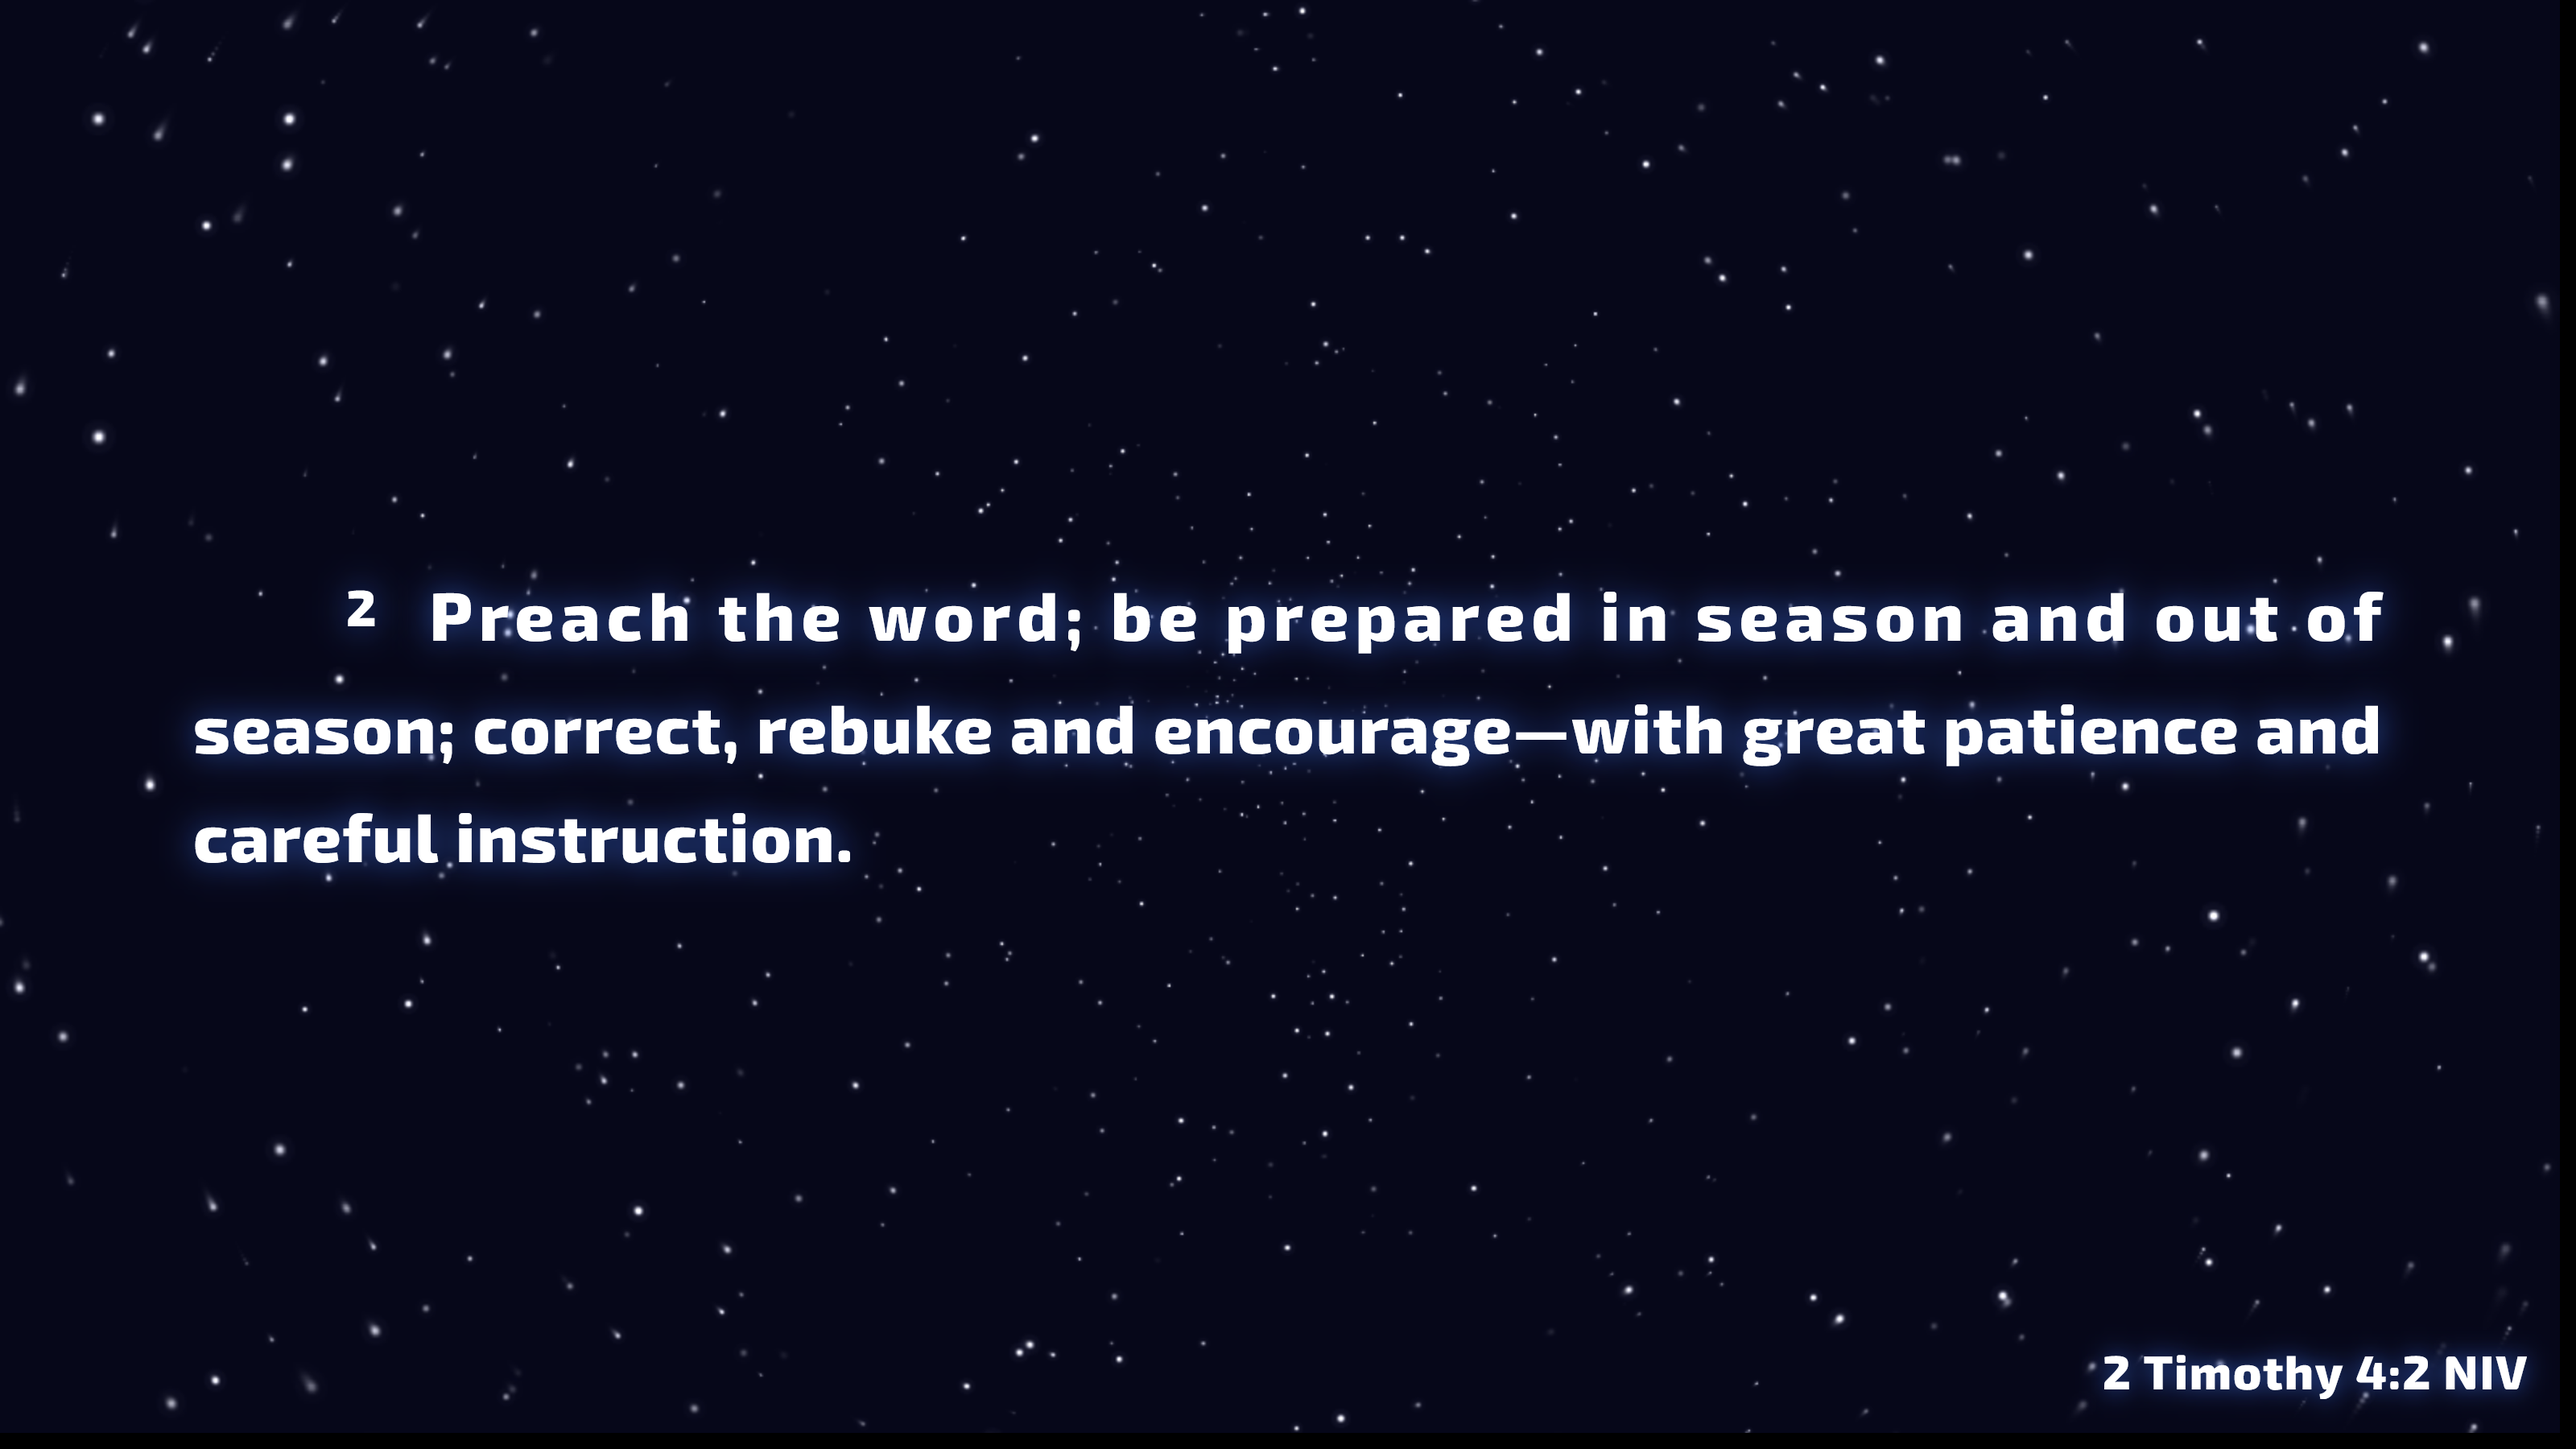
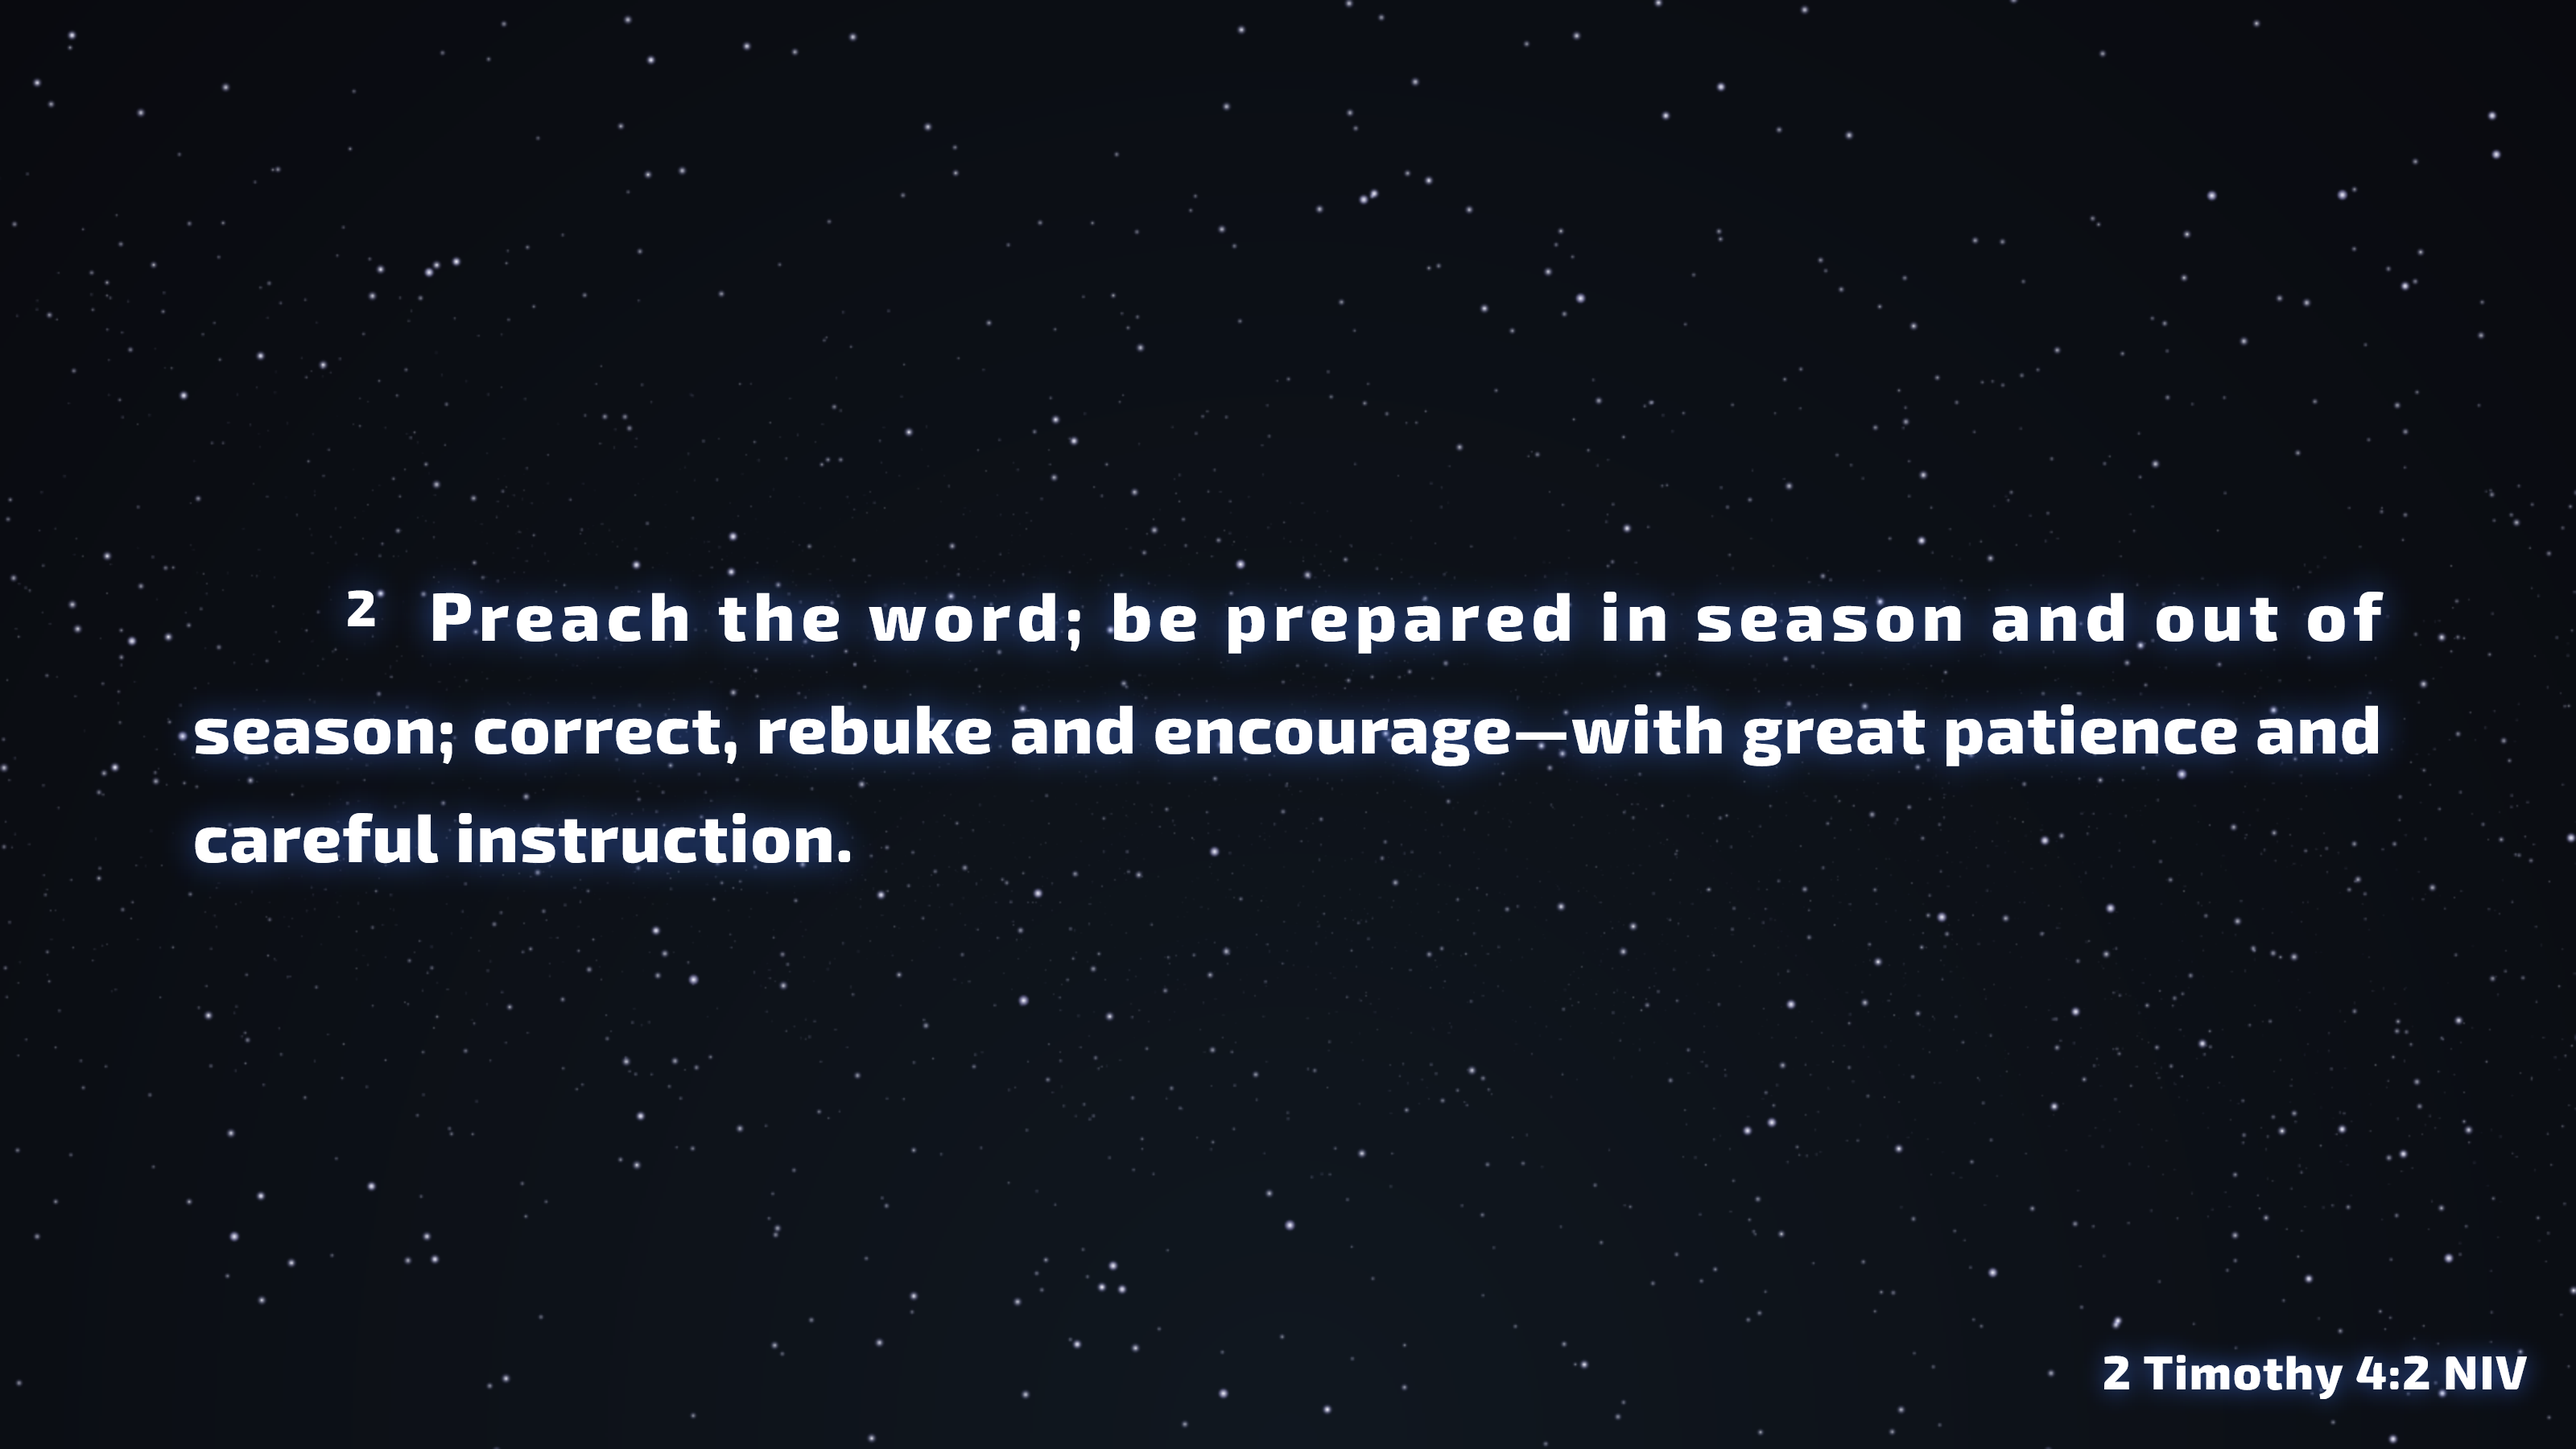
Switch animated stars theme

Changed region(s): [[0.1875, 0.9644, 0.8125, 1.0]]

diff --git a/backgrounds/amimated-stars.js b/backgrounds/amimated-stars.js
@@ -1,0 +1,162 @@
+const canvas = document.querySelector('canvas')
+const gl = canvas.getContext('webgl')
+
+const vertexShader = gl.createShader(gl.VERTEX_SHADER)
+gl.shaderSource(vertexShader, `
+precision highp float;
+
+uniform mat4 u_mvp;
+
+attribute vec3 a_position;
+
+varying float v_w;
+
+void main(void) {
+
+  vec4 finalPosition = u_mvp * vec4(a_position, 1.0);
+
+  gl_Position = finalPosition;
+  v_w = 1.0 / finalPosition.w;
+
+  if (gl_Position.w > 0.0) {
+    gl_PointSize = 5.0 / gl_Position.w;
+    if (gl_PointSize > 8.0) {
+      gl_PointSize = 8.0;
+    }
+  } else {
+    gl_PointSize = 0.0;
+  }
+}`)
+gl.compileShader(vertexShader)
+if (!gl.getShaderParameter(vertexShader, gl.COMPILE_STATUS)) {
+  console.error(gl.getShaderInfoLog(vertexShader))
+}
+
+const fragmentShader = gl.createShader(gl.FRAGMENT_SHADER)
+gl.shaderSource(fragmentShader, `
+precision highp float;
+
+varying float v_w;
+
+const vec4 begin = vec4(0.55, 0.55, 1.0, 1.0); // Colors
+const vec4 end = vec4(1.0, 1.0, 1.0, 1.0);
+
+vec4 interpolate4f(vec4 a,vec4 b, float p) {
+  return p * b + (1.0 - p) * a;
+}
+
+void main(void) {
+
+  vec2 pc = (gl_PointCoord - 0.5) * 2.0;
+
+  float dist = (1.0 - sqrt(pc.x * pc.x + pc.y * pc.y));
+  vec4 color = interpolate4f(begin, end, dist);
+  float distPart = v_w/70.0 + dist/1.0;
+  float opa =  dist * v_w/1.5 - 0.1;
+
+  gl_FragColor = vec4(distPart, distPart, distPart, opa) * color;
+
+}`)
+
+gl.compileShader(fragmentShader)
+if (!gl.getShaderParameter(fragmentShader, gl.COMPILE_STATUS)) {
+  console.error(gl.getShaderInfoLog(fragmentShader))
+}
+
+const program = gl.createProgram()
+gl.attachShader(program, vertexShader)
+gl.attachShader(program, fragmentShader)
+gl.linkProgram(program)
+
+const attributes = {
+  position: gl.getAttribLocation(program, 'a_position')
+}
+const uniforms = {
+  mvp: gl.getUniformLocation(program, 'u_mvp')
+}
+
+const NUM_POINTS = 20000
+const points = []
+for (let index = 0; index < NUM_POINTS; index++) {
+  points.push((Math.random() - 0.5) * 8)
+  points.push((Math.random() - 0.5) * 2)
+  points.push((Math.random() - 0.5) * 8)
+}
+
+const buffer = gl.createBuffer()
+gl.bindBuffer(gl.ARRAY_BUFFER, buffer)
+gl.bufferData(gl.ARRAY_BUFFER, new Float32Array(points), gl.STATIC_DRAW)
+  
+gl.clearColor(1.0, 1.0, 1.0, 1.0)
+gl.clear(gl.COLOR_BUFFER_BIT)
+
+gl.useProgram(program)
+  
+gl.enableVertexAttribArray(attributes.position)
+gl.vertexAttribPointer(0, 3, gl.FLOAT, gl.FALSE, 3*4, 0)
+
+gl.enable(gl.BLEND)
+gl.blendFunc(gl.SRC_ALPHA, gl.ONE)
+
+const pMatrix = mat4.create()
+const vMatrix = mat4.create()
+const ivMatrix = mat4.create()
+const mMatrix = mat4.create()
+const mvMatrix = mat4.create()
+const mvpMatrix = mat4.create()
+const position = vec3.create()
+
+mat4.perspective(pMatrix, Math.PI * 0.35, canvas.width / canvas.height, 0.01, 10000.0)
+
+vec3.set(position,0.0,0.0,0.0)
+
+let angle = 0.0
+let isDirty = true
+let frameID
+function render(now) {
+  
+  if (canvas.width !== canvas.clientWidth) {
+    canvas.width = canvas.clientWidth
+    isDirty = true
+  }
+  
+  if (canvas.height !== canvas.clientHeight) {
+    canvas.height = canvas.clientHeight
+    isDirty = true
+  }
+  
+  if (isDirty) {
+    gl.viewport(0, 0, canvas.width, canvas.height)
+    mat4.perspective(pMatrix, Math.PI * 0.55, canvas.width / canvas.height, 0.01, 1000.0)
+    isDirty = false
+  }
+  
+  angle += 0.0003
+  
+  // P * V * M
+  // mat4.translate(mvpMatrix, mvpMatrix, position);
+  // mat4.identity(mMatrix)
+  
+  position[2] = Math.sin(now / 20000)/3
+  
+  mat4.identity(vMatrix)
+  mat4.translate(vMatrix, vMatrix, position)
+  mat4.rotateX(vMatrix, vMatrix, angle)
+  mat4.rotateY(vMatrix, vMatrix, angle)
+  mat4.rotateZ(vMatrix, vMatrix, angle)
+  
+  mat4.invert(ivMatrix, vMatrix)
+  
+  mat4.multiply(mvMatrix, ivMatrix, mMatrix)
+  mat4.multiply(mvpMatrix, pMatrix, mvMatrix)
+  
+  gl.uniformMatrix4fv(uniforms.mvp, false, mvpMatrix)
+  gl.drawArrays(gl.POINTS, 0, NUM_POINTS)
+  
+  //console.count('render')
+  
+  frameID = window.requestAnimationFrame(render)
+  
+}
+
+frameID = window.requestAnimationFrame(render)

diff --git a/backgrounds/animated_stars.css b/backgrounds/animated_stars.css
@@ -1,0 +1,94 @@
+/* font */
+@import url(https://fonts.googleapis.com/css2?family=Exo+2:ital,wght@0,800;1,800&family=Roboto:ital,wght@0,300;0,900;1,400&display=swap);
+
+html, body, canvas {
+	overflow: hidden;
+	background: black;
+	margin: 0;
+	padding: 0;
+	height: 100%;
+    width: 100%;
+}
+
+canvas {
+	/* background: radial-gradient(ellipse at bottom, #1b2735c4 0%, #090a0f 100%); */
+	background: radial-gradient(ellipse at bottom, #1b273599 0%, #090a0f 100%);
+}
+
+#verses:not(.blackground) #source, #verses:not(.blackground) #verse, #announcement, #song, #timerMessage {
+	font-family: 'Exo 2';
+	font-style: normal;
+	font-weight: 800;
+	font-display: swap;
+	/* text-shadow: 0px 0px 5em rgba(69, 121, 244, 0.6); LARGE SLOW DOWN due to blur! */
+	text-shadow: 0px 0px 0.5em rgba(69, 121, 244, 0.5);
+	/*font-family: 'Sedgwick Ave Display' !important; */
+}
+
+/*  Decorative background stripes for text */
+#verses:not(.blackground) #verse {
+	//padding: 0 1.3em;
+	line-height: 1.6em;
+}
+
+#song {
+	padding: 0 0.5em;
+}
+
+#verses:not(.blackground) #verse > div {
+    line-height: 1.5em;
+    color: #fff;
+	/* padding-right: 1px;	*/
+	/* background: black;
+    /* box-shadow: 1.3em 0px 0px 0px black, -1.3em 0 0 0px black, -2px 0 0 2px black inset, 2px 0 0 2px black inset;
+    -webkit-box-decoration-break: clone;
+	box-decoration-break: clone; */
+}
+
+#song > div > span {
+	line-height: 1.5em;
+    color: #fff;
+    /* background: black;
+    padding: 0 1em;
+    -webkit-box-decoration-break: clone;
+    box-decoration-break: clone; */
+}
+
+#verse > div { /*, #song > div { */
+	display: inline;
+}
+
+#songs br {
+	display: block;
+	margin-bottom: 0.7em;
+}
+
+#verses:not(.blackground) {
+	font-size: 2.4em;
+}
+
+#announcements {
+	font-size: 2.5em;
+}
+
+#songs {
+	font-size: 2.9em;
+}
+
+#verses:not(.blackground) #verse .label {
+  top: -0.28em;
+  font-weight: bold;
+  color: white;
+}
+
+.frame {
+  /* max-width: 90%; */
+}
+
+/* Decorative box for announcements */
+
+#announcement {
+	padding: 1em 2.5em;
+	/* text-shadow: none;
+	background-color: rgba(0, 0, 0, 0.70); */
+}

diff --git a/backgrounds/animated-stars.html b/backgrounds/animated-stars.html
@@ -7,6 +7,19 @@
 	</head>
 	<body>
 		<canvas id="canvas">Canvas not supported.</canvas>
+		<script src="gl-matrix-min.js"></script>
+		<script>
+		  window["mat2"] = glMatrix.mat2;
+		  window["mat2d"] = glMatrix.mat2d;
+		  window["mat3"] = glMatrix.mat3;
+		  window["mat4"] = glMatrix.mat4;
+		  window["quat"] = glMatrix.quat;
+		  window["quat2"] = glMatrix.quat2;
+		  window["vec2"] = glMatrix.vec2;
+		  window["vec3"] = glMatrix.vec3;
+		  window["vec4"] = glMatrix.vec4;
+		  window["glMatrix"] = glMatrix.glMatrix;
+		</script>
 		<script type="text/javascript" src="animated-stars.js"></script>
 	</body>
 </html>

diff --git a/backgrounds/animated-stars_old.html b/backgrounds/animated-stars_old.html
@@ -1,0 +1,12 @@
+<!DOCTYPE html>
+<html>
+	<head>
+		<title>Background</title>
+		<meta charset="utf-8"/>
+		<link rel="stylesheet" href="animated-stars.css"/>		
+	</head>
+	<body>
+		<canvas id="canvas">Canvas not supported.</canvas>
+		<script type="text/javascript" src="animated-stars.js"></script>
+	</body>
+</html>

diff --git a/backgrounds/animated-stars-inner.css b/backgrounds/animated-stars-inner.css
@@ -6,3 +6,17 @@
 canvas {
   /* opacity: 0.5; */
 }
+
+html, body {
+  display flex
+  background #000
+  color #fff
+  margin 0
+  padding 0
+}
+  
+html, body, canvas {
+  width 100%
+  height 100%
+}
+  

diff --git a/backgrounds/animated-stars-inner_old.css b/backgrounds/animated-stars-inner_old.css
@@ -1,0 +1,8 @@
+/* body {
+  background: #060e1b;
+  overflow: hidden;
+} */
+
+canvas {
+  /* opacity: 0.5; */
+}
